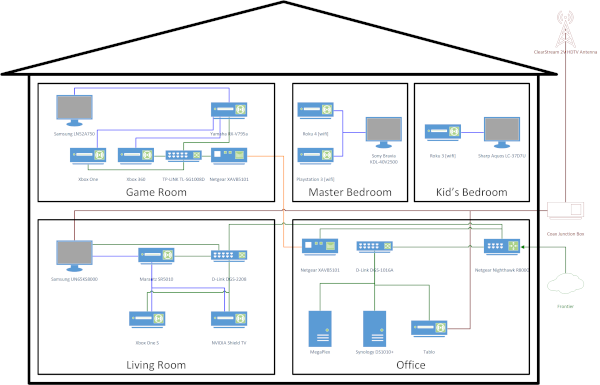
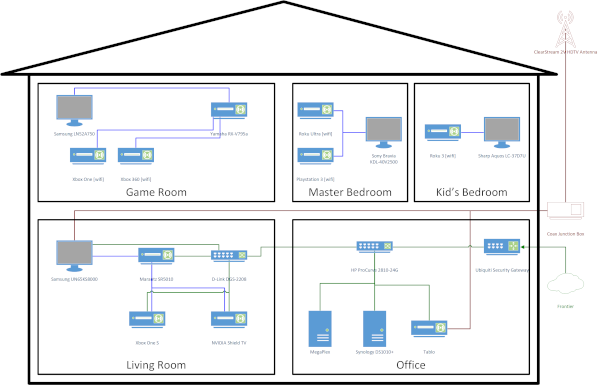
Updated for network overhaul with Ubiquiti devices.

diff --git a/docs/plans/cuttingthecable.rst b/docs/plans/cuttingthecable.rst
@@ -70,7 +70,7 @@ To improve the wireless signal we need to add a wireless access point upstairs. 
 
 I tried a second wireless access point (using a :doc:`DAP-1522 <../hardware/deprecated/dap1522>`) to the house upstairs so we should have better wifi all around. I'm using the same SSID and password/encryption so wireless roaming is in effect.
 
-That worked well for some time, but I found the wireless roaming caused weird issues sometimes on mobile devices when you were standing in certain areas of the house where the device had a hard time picking an access point. I ended up upgrading to a :doc:`a Netgear Nighthawk X6 AC3200 tri-band router (model R8000) <../hardware/network/netgearr8000>` to solve my range issues.
+That worked well for some time, but I found the wireless roaming caused weird issues sometimes on mobile devices when you were standing in certain areas of the house where the device had a hard time picking an access point. I ended up upgrading to a :doc:`a Netgear Nighthawk X6 AC3200 tri-band router (model R8000) <../hardware/deprecated/netgearr8000>` to solve my range issues.
 
 At some later time I may consider putting in a more powerful access point to just serve the whole house from one location. The `Ubiquiti Networks UniFi AP Enterprise WiFi System ($67) <http://www.amazon.com/dp/B004XXMUCQ?tag=mhsvortex>`_ is a highly rated, very powerful access point that could solve the signal/range issues. It's also an extensible system so if we want, we can link more than one to the network later and really crank it up.
 
@@ -78,7 +78,7 @@ Improving Wired
 ~~~~~~~~~~~~~~~
 The ideal solution to getting wires to each room is to actually run wires through the house. That's expensive and a pain. Technically we could also run wires out the crawlspace, up the side of the outside of the house, and back in. That's what Comcast did when they installed the extra TV jack in the family room. It's a common solution.
 
-Barring that, to get wires into rooms we'd use :doc:`powerline adapters <../hardware/network/powerline>`. These plug into electrical outlets and broadcast signals through the power system. It's slightly slower than running real wires, but it's fairly easy.
+Barring that, to get wires into rooms we'd use :doc:`powerline adapters <../hardware/deprecated/powerline>`. These plug into electrical outlets and broadcast signals through the power system. It's slightly slower than running real wires, but it's fairly easy.
 
 I started off with a set of NetGear Powerline (XAVB1201) 200Mbps adapters ($45/pair) but upgraded the upstairs/downstairs primary set to the XAVB5101 ($80/pair) version which runs at 500Mbps and better handles HD video. These are what served the :doc:`DAP-1522 <../hardware/deprecated/dap1522>` access point upstairs when I had that running.
 
@@ -86,7 +86,7 @@ I did find that the XAVB5101 and XAVB1201 adapters, while they're supposed to wo
 
 Recommendations
 ~~~~~~~~~~~~~~~
-While not requiring any additional wireless hardware, the XAVB5101 :doc:`powerline adapters <../hardware/network/powerline>` are needed to get wired signal upstairs.
+While not requiring any additional wireless hardware, the XAVB5101 :doc:`powerline adapters <../hardware/deprecated/powerline>` are needed to get wired signal upstairs.
 
 DVR
 ---

diff --git a/docs/hardware/network/switches.rst b/docs/hardware/network/switches.rst
@@ -28,3 +28,66 @@ I have one `TP-LINK TL-SG1008D 8-port gigabit desktop switch <http://www.amazon.
 .. image:: tlsg1008d.jpg
 
 I picked this up as an alternative to the DGS-2208 when I needed another switch upstairs but the DGS-2208 was an older model.
+
+HP ProCurve 2810-24G
+====================
+
+When I updated to :doc:`Ubiquiti UniFi equipment <ubiquiti>` I replaced the two smaller unmanaged switches sitting under the desk with this larger 24-port managed switch.
+
+It's a little older, but it does gigabit Ethernet and gets the job done.
+
+I found the configuration via console to be somewhat challenging so I have a lot of notes about that.
+
+Console Connection
+------------------
+
+To connect a console to the switch, use the console cable shipped with the switch and connect a PC or VT-100 terminal to the console serial port (e.g., PuTTY or KiTTY). The PC or terminal then functions as a management console connected directly to the switch.
+
+Use the settings:
+
+- A baud rate from 1200 to 115200 (the switch senses the speed)
+- 8N1 (8 data bits, no parity, 1 stop bit)
+- Xon/Xoff flow control
+
+After connecting you won’t see anything happen immediately! Press Enter two or three times to have the switch sense the speed and finish connecting.
+
+On Windows you can use the ``mode`` command to show the list of available COM ports. Note the USB COM port adapter may show the connection as something low like 1200 baud but you can set the terminal program to something higher and it works. Also, it may be better to connect the cable to the switch first and then attach the USB connector to the computer. It seems some auto-detection happens in that scenario.
+
+Commands
+--------
+
+Hit ``TAB`` at the prompt to list commands. This also does autocomplete for commands where available.
+
+- ``setup`` - launches the GUI menu
+- ``config`` - starts configuration via CLI
+
+Set timezone and network time protocol details (timezone is GMT offset in minutes)::
+
+    2510_01# write memory
+    2510_01# config
+    2510_01(config)# time daylight-time-rule continental-us-and-canada
+    2510_01(config)# time timezone -4800
+    2510_01(config)# timesync sntp
+    2510_01(config)# sntp unicast
+    2510_01(config)# sntp server 10.10.20.69
+    2510_01(config)# show time
+    2510_01(config)# show sntp
+    2510_01(config)# write memory
+
+The SNTP server can be any reachable NTP server. You may have to use the GUI menu to tweak the "protocol version" on the SNTP server - using protocol 7 means it accepts pretty much anything from protocols 1 - 7. You may need to reboot the switch to force a sync, too.
+
+Enable HTTP management and disable HTTPS. The switch is old enough that the HTTPS self-signed certificate isn't strong enough to satisfy browser requirements. Also, your browser needs to have Java on it so you may be stuck with IE11 or something::
+
+    2510_01(config)# no web-management ssl
+    2510_01(config)# web-management plaintext
+
+Set manager and operator username and password::
+
+    2510_01(config)# password manager user-name admin
+    2510_01(config)# password operator user-name monitor
+
+Save and view the configuration::
+
+    2510_01(config)# write memory
+    2510_01(config)# show run
+

diff --git a/docs/hardware/network/ubiquiti.rst b/docs/hardware/network/ubiquiti.rst
@@ -1,0 +1,41 @@
+================
+Ubiquiti Devices
+================
+
+In late 2019 we had some hiccups with the :doc:`Frontier network <../../network/providers/frontier>`. We fought with it for a while but the :doc:`Netgear R8000 router <../deprecated/netgearr8000>` was seen to be the problem since it had been around for a while.
+
+[As it turns out, the problem was a bad card in a Frontier substation that would intermittently cause failures. It was affecting multiple customers, we were just the only ones to report it.]
+
+I updated the whole network with Ubiquiti UniFi equipment. I'd sort of been researching this for a while, ended up just doing it.
+
+- UniFi Security Gateway
+- UniFi Cloud Key
+- UniFi long range access point (UAP-LR)
+- UniFi standard access point (UAP)
+
+I found a few things that weren't obvious when setting this up, so I have notes here.
+
+Initial Setup
+=============
+
+Once you set up a username and password for the Cloud Key (e.g., "ubnt-admin") the original ubnt/ubnt credential set is replaced.
+
+When you adopt a Security Gateway you'll have to set up a "device authentication" credential set ("admin" with a password by default). This is the new username/password for logging into the Security Gateway directly. It won't use the same password as the controller.
+
+Reserved DHCP Addresses
+=======================
+
+Go to the client list and select the client that should have a reservation. Under "network" you should select "fixed IP address" and that's the reservation.
+
+Wireless Network
+================
+
+It appears best if you can set the channel and power on wireless yourself. There are `some articles <https://community.ui.com/questions/Clients-still-connecting-at-2G-not-5G-/ca738b92-5a85-4bc9-b112-72c966d47197>`_ on `the forums <https://community.ui.com/questions/No-5ghz-on-AP-AC-LR/5b57f50f-2f0b-410a-aee6-19b7e8478405>`_ that indicate this.
+
+Some devices don't like certain higher channels on 5GHz. For example, auto selected channels in the higher range didn't allow the Google Home devices to connect, but when I switched to 36 manually they started connecting to 5GHz.
+
+Set the 2GHz power to medium and the 5GHz to high to compensate for the differences in the bandwidth power. Use "bandwidth steering" to "prefer 5GHz" and more devices will start to use the 5GHz.
+
+Some devices may just never connect to 5GHz. Folks report you may need to set up two different SSIDs and manually force the issue.
+
+Enable "advanced features" on the Cloud Key (under "Settings"), then on the access point enable "bandwidth steering" to "prefer 5GHz."

diff --git a/docs/hardware/deprecated/netgearwndr3700v2.rst b/docs/hardware/deprecated/netgearwndr3700v2.rst
@@ -16,8 +16,8 @@ I got a Netgear WNDR3700v2 for our router because it has:
 
 Everything went along fine for the first month or so and then we had several dropouts where the 2.4GHz network would just "disappear." It would return after rebooting the router or simply visiting the router configuration page and clicking the "Apply" button on any setting page (without making any changes). After upgrading to the latest firmware, the issue went away.
 
-The downside to this particular router, I found, is the wireless power/range. The office where the network comes in is on the bottom floor of my house on one side and there's not a great way to reposition it - :doc:`powerline <../network/powerline>` isn't really fast enough and I don't have wires run to the upstairs. What this resulted in was about 50% signal at best upstairs in the house, and less in some cases. The antenna for the router is internal and somewhat small.
+The downside to this particular router, I found, is the wireless power/range. The office where the network comes in is on the bottom floor of my house on one side and there's not a great way to reposition it - :doc:`powerline <powerline>` isn't really fast enough and I don't have wires run to the upstairs. What this resulted in was about 50% signal at best upstairs in the house, and less in some cases. The antenna for the router is internal and somewhat small.
 
-I had the :doc:`DAP-1522 <dap1522>` upstairs over :doc:`powerline <../network/powerline>` to try bridging the gap with wireless roaming but had weird issues using mobile devices when it switched from one network to the other. It wasn't very seamless.
+I had the :doc:`DAP-1522 <dap1522>` upstairs over :doc:`powerline <powerline>` to try bridging the gap with wireless roaming but had weird issues using mobile devices when it switched from one network to the other. It wasn't very seamless.
 
-I ended up upgrading to a :doc:`Netgear Nighthawk X6 AC3200 router <../network/netgearr8000>` and removing the wireless roaming.
+I ended up upgrading to a :doc:`Netgear Nighthawk X6 AC3200 router <netgearr8000>` and removing the wireless roaming.

diff --git a/docs/network/providers/frontier.rst b/docs/network/providers/frontier.rst
@@ -15,3 +15,5 @@ Frontier hosed things up on my network constantly by remotely pushing policy and
 We left Verizon/Frontier FIOS in June 2011 and switched to :doc:`Comcast <comcast>`. The price was better, the service was better, the TV and phone features were better. We didn't get the same speed network as we had with FIOS, and we started out with a 250GB monthly cap (later lifted), but it's a small price to pay for better service and folks not constantly remote-pushing changes to my network.
 
 In June 2019 we switched back to Frontier because the Comcast internet, while nice, was getting spendy. We had cut the cord and had internet-only service, and even then we got Frontier at half the price for the same service. Frontier appears to have gotten their act in gear since we last had them and it's been reasonably stable.
+
+Late 2019 we had some networking hiccups where the network was going down intermittently. It turns out the ONT on the house was of a particular model that interacted poorly with one of the cards at the local substation. The card would think it was getting flooded and shut down, then ramp back up. This appeared from our end to be a network outage. Our router was blamed, so we bought new equipment (Ubiquiti) but then they located the bad card after all the new equipment was in place. Sigh.

diff --git a/docs/hardware/deprecated/netgearr8000.rst b/docs/hardware/deprecated/netgearr8000.rst
@@ -1,0 +1,15 @@
+===================================
+Netgear Nighthawk X6 AC3200 (R8000)
+===================================
+
+I had `a Netgear Nighthawk X6 AC3200 tri-band router (model R8000) <http://www.amazon.com/dp/B00KWHMR6G?tag=mhsvortex>`_ as my primary router/wireless access point coming right off the cable modem for quite some time.
+
+I replaced it with :doc:`Ubiquiti equipment <../network/ubiquiti>` when we had some networking hiccups.
+
+.. image:: netgearr8000.jpg
+
+I bought this as a replacement for the :doc:`Netgear WNDR3700v2 <netgearwndr3700v2>` I was using due to some range issues. I had wireless roaming mostly working, though it wasn't smooth, so I upgraded to this model to help out. I liked my :doc:`Netgear WNDR3700v2 <netgearwndr3700v2>` and it was solid; I just needed some better range.
+
+The trouble in the house is mostly walls. No matter where I put my previous access points, nothing really covered everywhere. With this new router, I get a minimum of three bars (out of four) everywhere in my house and even into the back yard.
+
+Setup was super easy and the additional features like Dynamic Quality of Service are sweet. I had the new router swapped out for my old one and everything configured in under an hour.

diff --git a/docs/hardware/deprecated/powerline.rst b/docs/hardware/deprecated/powerline.rst
@@ -2,9 +2,9 @@
 Powerline Network Adapters
 ==========================
 
-I use powerline adapters to get wired network from downstairs, where my cable modem and router are, to the upstairs, where we have various devices requiring connectivity. Wireless is great and all, but for a decent, reliable connection, nothing beats wired.
+I used to have powerline adapters to get wired network from downstairs, where my cable modem and router are, to the upstairs, where we have various devices requiring connectivity. I did this because the wireless signal wasn't as good upstairs, but I also found that the powerline adapters were somewhat slow and flaky. Better than wifi at the time, but not as good after updating the wireless signal.
 
-Plus, with the wire upstairs, I was able to add an :doc:`access point <../deprecated/dap1522>` up there for a while and get good wireless coverage around the house.
+When I had powerline running, part of that was an :doc:`access point <dap1522>` to improve upstairs wifi. That was removed.
 
 Netgear XAVB5101 500MBps
 ========================

diff --git a/docs/network/configuration.rst b/docs/network/configuration.rst
@@ -12,7 +12,4 @@ Setting the Name / Type
 =======================
 After switching routers, my Windows machines started thinking the "new network" was a public network and stopped doing network discovery on things. It was also called "Network 3" or something like that and that didn't help much.
 
-I found a couple of articles to help with that.
-
-- `How to rename the network in Windows 8 <http://www.eightforums.com/tutorials/19670-network-name-change-windows-8-a.html>`_
-- `How to change the network type (public/private) in Windows 8 <http://www.eightforums.com/tutorials/9837-network-location-set-private-public-windows-8-a.html>`_
+You can run ``secpol.msc`` and update the name/type of the network from there.

diff --git a/docs/hardware/deprecated/dap1522.rst b/docs/hardware/deprecated/dap1522.rst
@@ -2,7 +2,7 @@
 D-Link DAP-1522
 ===============
 
-I originally bought a `D-Link DAP-1522 <http://www.amazon.com/D-Link-Wireless-Gigabit-Extender-DAP-1522/dp/B001769K3O?tag=mhsvortex>`_ as a wireless bridge upstairs, before I got the :doc:`powerline adapters <../network/powerline>`.
+I originally bought a `D-Link DAP-1522 <http://www.amazon.com/D-Link-Wireless-Gigabit-Extender-DAP-1522/dp/B001769K3O?tag=mhsvortex>`_ as a wireless bridge upstairs, before I got the :doc:`powerline adapters <powerline>`.
 
 .. image:: dap1522.jpg
 

diff --git a/docs/hardware/deprecated/index.rst b/docs/hardware/deprecated/index.rst
@@ -12,3 +12,5 @@ As my system grows and changes, I switch up the hardware driving the system. Onc
     cm3000.rst
     yamaharxv777bt.rst
     hpex475.rst
+    powerline.rst
+    netgearr8000.rst

diff --git a/docs/hardware/network/index.rst b/docs/hardware/network/index.rst
@@ -4,7 +4,6 @@ Network Infrastructure
 
 .. toctree::
     arrissb6183.rst
-    netgearr8000.rst
-    powerline.rst
+    ubiquiti.rst
     switches.rst
     clearstream2v.rst
